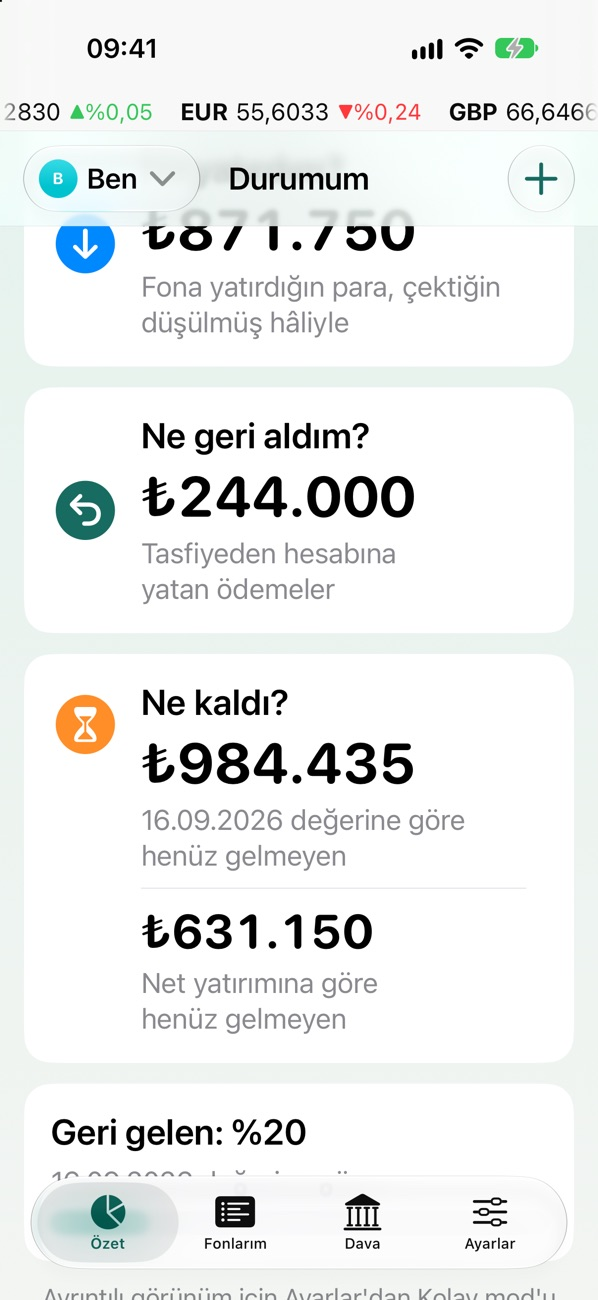
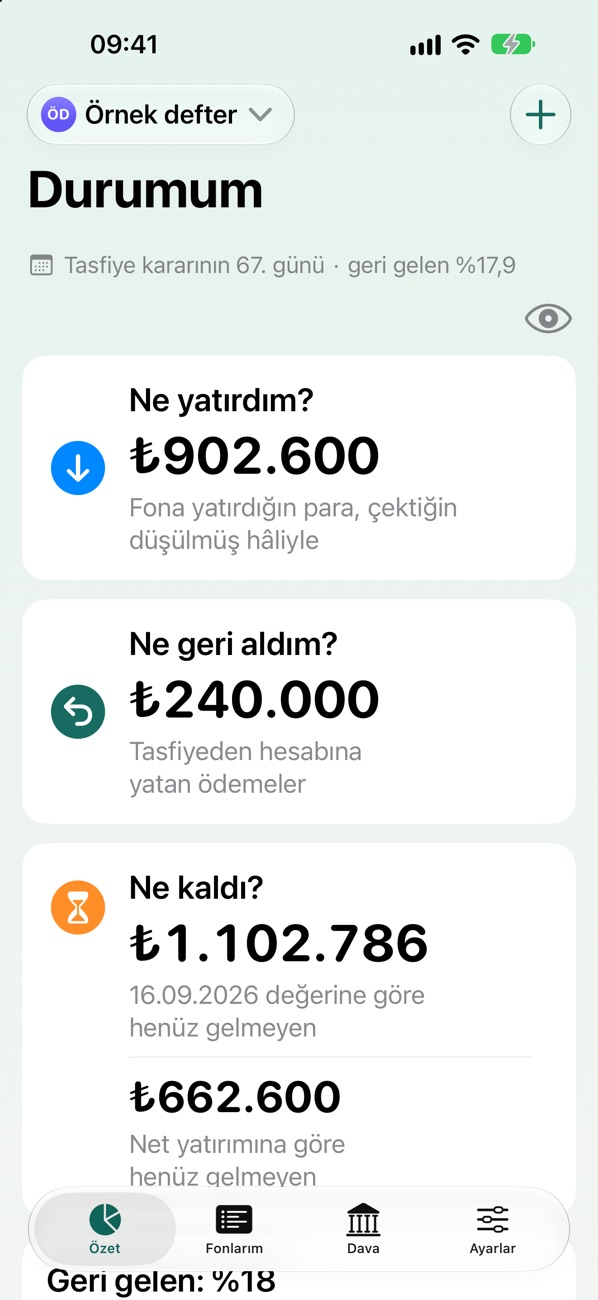
1.1 yayında: iPad metinleri, ülkesiz App Store bağlantıları, Örnek defter ekranları

diff --git a/duyurular.html b/duyurular.html
@@ -44,7 +44,7 @@
 <main class="page">
   <div class="wrap narrow">
     <h1>Duyurular</h1>
-    <p class="meta" id="updated">41 duyuru · en yeni resmî duyuru: 20.11.2026 · her saat kontrol edilir</p>
+    <p class="meta" id="updated">42 duyuru · en yeni resmî duyuru: 20.11.2026 · her saat kontrol edilir</p>
     <p>Uygulamadaki Duyurular bölümüyle aynı liste. SPK ve YTM her saat kendiliğinden kontrol edilir; yeni bir duyuru çıkınca buraya da eklenir.</p>
 
     <section id="bizden" class="news-section">
@@ -52,7 +52,7 @@
         <h2>Fon Defterim'den</h2>
         <span class="muted small">Uygulama ve site ile ilgili haberler</span>
       </div>
-      <div id="own" class="news-list"><!--statik--><article class="news"><div class="news-mark" aria-hidden="true"><svg viewBox="0 0 100 106"><path d="M50 3 92 17v35c0 28-20 42-42 51C28 94 8 80 8 52V17Z" fill="currentColor"/><g fill="#fff"><rect x="30" y="34" width="40" height="6" rx="3"/><rect x="30" y="47" width="40" height="6" rx="3"/><rect x="30" y="60" width="27" height="6" rx="3"/></g></svg></div><div><div class="news-meta"><span class="chip own">Fon Defterim</span> 20.11.2026</div><h3><a href="https://apps.apple.com/tr/app/fon-defterim/id6836281635" rel="noopener noreferrer">Fon Defterim App Store&#x27;da</a></h3><p>iPhone uygulaması artık App Store&#x27;da, ücretsiz: işlemlerini ve tasfiyeden gelen ödemeleri kaydet, net yatırımını ve kalan alacağını gör; ekstren telefonunda okunur, hiçbir yere gitmez. Android ve bilgisayar için sitedeki hesaplayıcı kullanılmaya devam ediyor.</p></div></article><article class="news"><div class="news-mark" aria-hidden="true"><svg viewBox="0 0 100 106"><path d="M50 3 92 17v35c0 28-20 42-42 51C28 94 8 80 8 52V17Z" fill="currentColor"/><g fill="#fff"><rect x="30" y="34" width="40" height="6" rx="3"/><rect x="30" y="47" width="40" height="6" rx="3"/><rect x="30" y="60" width="27" height="6" rx="3"/></g></svg></div><div><div class="news-meta"><span class="chip own">Fon Defterim</span> 15.11.2026</div><h3><a href="https://www.ytm.gov.tr/Home/Duyuru/57" rel="noopener noreferrer">Tera Yatırım müşterileri: YTM başvurusu 30 Aralık&#x27;a kadar</a></h3><p>Tera Yatırım&#x27;da kalan nakit ve menkul kıymet alacakları için Yatırımcı Tazmin Merkezi&#x27;ne başvurunun son günü 30.12.2026. Form tazmin.ytm.gov.tr adresinde doldurulur; ıslak imzalı çıktısı eklerle birlikte elden, postayla ya da kargoyla YTM&#x27;ye gönderilir. Alacaklara faiz işlemez, bu yüzden başvuruyu geciktirme. Bilgileri yalnızca ytm.gov.tr&#x27;den kontrol et; senden para ya da şifre isteyenlere itibar etme.</p></div></article><article class="news"><div class="news-mark" aria-hidden="true"><svg viewBox="0 0 100 106"><path d="M50 3 92 17v35c0 28-20 42-42 51C28 94 8 80 8 52V17Z" fill="currentColor"/><g fill="#fff"><rect x="30" y="34" width="40" height="6" rx="3"/><rect x="30" y="47" width="40" height="6" rx="3"/><rect x="30" y="60" width="27" height="6" rx="3"/></g></svg></div><div><div class="news-meta"><span class="chip own">Fon Defterim</span> 15.11.2026</div><h3>Uygulamaya otomatik yedek geliyor</h3><p>Fon Defterim uygulamasında kayıtların her gün iCloud Drive&#x27;da seçtiğin klasöre otomatik yedeklenebilecek; telefon kaybolsa ya da uygulama silinse bile kayıtların kalır. Özellik isteğe bağlı, kendiliğinden açılmaz.</p></div></article><article class="news"><div class="news-mark" aria-hidden="true"><svg viewBox="0 0 100 106"><path d="M50 3 92 17v35c0 28-20 42-42 51C28 94 8 80 8 52V17Z" fill="currentColor"/><g fill="#fff"><rect x="30" y="34" width="40" height="6" rx="3"/><rect x="30" y="47" width="40" height="6" rx="3"/><rect x="30" y="60" width="27" height="6" rx="3"/></g></svg></div><div><div class="news-meta"><span class="chip own">Fon Defterim</span> 15.11.2026</div><h3><a href="https://fondefterim.com/hesapla.html" rel="noopener noreferrer">Hesaplayıcı artık birden fazla PDF ekstre okuyor</a></h3><p>Her ayın ya da her aracı kurumun ekstresini tek seferde seçebilirsin; iki ekstrede geçen işlem bir kez sayılır. Dosyaların yine hiçbir yere gönderilmez.</p></div></article><article class="news"><div class="news-mark" aria-hidden="true"><svg viewBox="0 0 100 106"><path d="M50 3 92 17v35c0 28-20 42-42 51C28 94 8 80 8 52V17Z" fill="currentColor"/><g fill="#fff"><rect x="30" y="34" width="40" height="6" rx="3"/><rect x="30" y="47" width="40" height="6" rx="3"/><rect x="30" y="60" width="27" height="6" rx="3"/></g></svg></div><div><div class="news-meta"><span class="chip own">Fon Defterim</span> 15.11.2026</div><h3><a href="https://fondefterim.com" rel="noopener noreferrer">fondefterim.com yayında</a></h3><p>Sitemiz açıldı: net yatırımını Excel ya da PDF ekstrenle tarayıcıda hesapla; 72 fonun 16.09 fiyatı, SPK duyuruları ve KAP bağlantıları fon sayfalarında. Ekstren hiçbir yere gitmez.</p></div></article><article class="news"><div class="news-mark" aria-hidden="true"><svg viewBox="0 0 100 106"><path d="M50 3 92 17v35c0 28-20 42-42 51C28 94 8 80 8 52V17Z" fill="currentColor"/><g fill="#fff"><rect x="30" y="34" width="40" height="6" rx="3"/><rect x="30" y="47" width="40" height="6" rx="3"/><rect x="30" y="60" width="27" height="6" rx="3"/></g></svg></div><div><div class="news-meta"><span class="chip own">Fon Defterim</span> 08.11.2026</div><h3>Fon Defterim veri sayfası yayında</h3><p>Tasfiye listesindeki fonların bilgileri ve yeni duyurular bundan sonra buradan güncellenecek; uygulamayı güncellemene gerek kalmadan telefonuna gelir. Uygulama yalnızca bu herkese açık listeyi indirir, senin kayıtların hiçbir yere gönderilmez.</p></div></article><article class="news"><div class="news-mark" aria-hidden="true"><svg viewBox="0 0 100 106"><path d="M50 3 92 17v35c0 28-20 42-42 51C28 94 8 80 8 52V17Z" fill="currentColor"/><g fill="#fff"><rect x="30" y="34" width="40" height="6" rx="3"/><rect x="30" y="47" width="40" height="6" rx="3"/><rect x="30" y="60" width="27" height="6" rx="3"/></g></svg></div><div><div class="news-meta"><span class="chip own">Fon Defterim</span> 08.11.2026</div><h3><a href="https://fondefterim.github.io/gizlilik.html" rel="noopener noreferrer">Gizlilik politikası</a></h3><p>Fon Defterim hangi bilgileri işler, nerede saklar?</p></div></article><!--/statik--></div>
+      <div id="own" class="news-list"><!--statik--><article class="news"><div class="news-mark" aria-hidden="true"><svg viewBox="0 0 100 106"><path d="M50 3 92 17v35c0 28-20 42-42 51C28 94 8 80 8 52V17Z" fill="currentColor"/><g fill="#fff"><rect x="30" y="34" width="40" height="6" rx="3"/><rect x="30" y="47" width="40" height="6" rx="3"/><rect x="30" y="60" width="27" height="6" rx="3"/></g></svg></div><div><div class="news-meta"><span class="chip own">Fon Defterim</span> 24.11.2026</div><h3><a href="https://apps.apple.com/app/id6836281635" rel="noopener noreferrer">Yeni sürüm 1.1 yayında</a></h3><p>iPad desteği, yeni genel duyurularda anlık bildirim ve fonu defterden kaldırma geldi. App Store&#x27;dan güncelleyebilirsin; kayıtların olduğu gibi kalır.</p></div></article><article class="news"><div class="news-mark" aria-hidden="true"><svg viewBox="0 0 100 106"><path d="M50 3 92 17v35c0 28-20 42-42 51C28 94 8 80 8 52V17Z" fill="currentColor"/><g fill="#fff"><rect x="30" y="34" width="40" height="6" rx="3"/><rect x="30" y="47" width="40" height="6" rx="3"/><rect x="30" y="60" width="27" height="6" rx="3"/></g></svg></div><div><div class="news-meta"><span class="chip own">Fon Defterim</span> 20.11.2026</div><h3><a href="https://apps.apple.com/tr/app/fon-defterim/id6836281635" rel="noopener noreferrer">Fon Defterim App Store&#x27;da</a></h3><p>iPhone uygulaması artık App Store&#x27;da, ücretsiz: işlemlerini ve tasfiyeden gelen ödemeleri kaydet, net yatırımını ve kalan alacağını gör; ekstren telefonunda okunur, hiçbir yere gitmez. Android ve bilgisayar için sitedeki hesaplayıcı kullanılmaya devam ediyor.</p></div></article><article class="news"><div class="news-mark" aria-hidden="true"><svg viewBox="0 0 100 106"><path d="M50 3 92 17v35c0 28-20 42-42 51C28 94 8 80 8 52V17Z" fill="currentColor"/><g fill="#fff"><rect x="30" y="34" width="40" height="6" rx="3"/><rect x="30" y="47" width="40" height="6" rx="3"/><rect x="30" y="60" width="27" height="6" rx="3"/></g></svg></div><div><div class="news-meta"><span class="chip own">Fon Defterim</span> 15.11.2026</div><h3><a href="https://www.ytm.gov.tr/Home/Duyuru/57" rel="noopener noreferrer">Tera Yatırım müşterileri: YTM başvurusu 30 Aralık&#x27;a kadar</a></h3><p>Tera Yatırım&#x27;da kalan nakit ve menkul kıymet alacakları için Yatırımcı Tazmin Merkezi&#x27;ne başvurunun son günü 30.12.2026. Form tazmin.ytm.gov.tr adresinde doldurulur; ıslak imzalı çıktısı eklerle birlikte elden, postayla ya da kargoyla YTM&#x27;ye gönderilir. Alacaklara faiz işlemez, bu yüzden başvuruyu geciktirme. Bilgileri yalnızca ytm.gov.tr&#x27;den kontrol et; senden para ya da şifre isteyenlere itibar etme.</p></div></article><article class="news"><div class="news-mark" aria-hidden="true"><svg viewBox="0 0 100 106"><path d="M50 3 92 17v35c0 28-20 42-42 51C28 94 8 80 8 52V17Z" fill="currentColor"/><g fill="#fff"><rect x="30" y="34" width="40" height="6" rx="3"/><rect x="30" y="47" width="40" height="6" rx="3"/><rect x="30" y="60" width="27" height="6" rx="3"/></g></svg></div><div><div class="news-meta"><span class="chip own">Fon Defterim</span> 15.11.2026</div><h3>Uygulamaya otomatik yedek geliyor</h3><p>Fon Defterim uygulamasında kayıtların her gün iCloud Drive&#x27;da seçtiğin klasöre otomatik yedeklenebilecek; telefon kaybolsa ya da uygulama silinse bile kayıtların kalır. Özellik isteğe bağlı, kendiliğinden açılmaz.</p></div></article><article class="news"><div class="news-mark" aria-hidden="true"><svg viewBox="0 0 100 106"><path d="M50 3 92 17v35c0 28-20 42-42 51C28 94 8 80 8 52V17Z" fill="currentColor"/><g fill="#fff"><rect x="30" y="34" width="40" height="6" rx="3"/><rect x="30" y="47" width="40" height="6" rx="3"/><rect x="30" y="60" width="27" height="6" rx="3"/></g></svg></div><div><div class="news-meta"><span class="chip own">Fon Defterim</span> 15.11.2026</div><h3><a href="https://fondefterim.com/hesapla.html" rel="noopener noreferrer">Hesaplayıcı artık birden fazla PDF ekstre okuyor</a></h3><p>Her ayın ya da her aracı kurumun ekstresini tek seferde seçebilirsin; iki ekstrede geçen işlem bir kez sayılır. Dosyaların yine hiçbir yere gönderilmez.</p></div></article><article class="news"><div class="news-mark" aria-hidden="true"><svg viewBox="0 0 100 106"><path d="M50 3 92 17v35c0 28-20 42-42 51C28 94 8 80 8 52V17Z" fill="currentColor"/><g fill="#fff"><rect x="30" y="34" width="40" height="6" rx="3"/><rect x="30" y="47" width="40" height="6" rx="3"/><rect x="30" y="60" width="27" height="6" rx="3"/></g></svg></div><div><div class="news-meta"><span class="chip own">Fon Defterim</span> 15.11.2026</div><h3><a href="https://fondefterim.com" rel="noopener noreferrer">fondefterim.com yayında</a></h3><p>Sitemiz açıldı: net yatırımını Excel ya da PDF ekstrenle tarayıcıda hesapla; 72 fonun 16.09 fiyatı, SPK duyuruları ve KAP bağlantıları fon sayfalarında. Ekstren hiçbir yere gitmez.</p></div></article><article class="news"><div class="news-mark" aria-hidden="true"><svg viewBox="0 0 100 106"><path d="M50 3 92 17v35c0 28-20 42-42 51C28 94 8 80 8 52V17Z" fill="currentColor"/><g fill="#fff"><rect x="30" y="34" width="40" height="6" rx="3"/><rect x="30" y="47" width="40" height="6" rx="3"/><rect x="30" y="60" width="27" height="6" rx="3"/></g></svg></div><div><div class="news-meta"><span class="chip own">Fon Defterim</span> 08.11.2026</div><h3>Fon Defterim veri sayfası yayında</h3><p>Tasfiye listesindeki fonların bilgileri ve yeni duyurular bundan sonra buradan güncellenecek; uygulamayı güncellemene gerek kalmadan telefonuna gelir. Uygulama yalnızca bu herkese açık listeyi indirir, senin kayıtların hiçbir yere gönderilmez.</p></div></article><article class="news"><div class="news-mark" aria-hidden="true"><svg viewBox="0 0 100 106"><path d="M50 3 92 17v35c0 28-20 42-42 51C28 94 8 80 8 52V17Z" fill="currentColor"/><g fill="#fff"><rect x="30" y="34" width="40" height="6" rx="3"/><rect x="30" y="47" width="40" height="6" rx="3"/><rect x="30" y="60" width="27" height="6" rx="3"/></g></svg></div><div><div class="news-meta"><span class="chip own">Fon Defterim</span> 08.11.2026</div><h3><a href="https://fondefterim.github.io/gizlilik.html" rel="noopener noreferrer">Gizlilik politikası</a></h3><p>Fon Defterim hangi bilgileri işler, nerede saklar?</p></div></article><!--/statik--></div>
     </section>
 
     <section id="resmi" class="ann-section">

diff --git a/index.html b/index.html
@@ -4,7 +4,7 @@
 <meta charset="utf-8">
 <meta name="viewport" content="width=device-width, initial-scale=1">
 <title>Fon Defterim – Tasfiyedeki fonlar için hesap defteri</title>
-<meta name="description" content="SPK kararıyla tasfiyeye giren fonların yatırımcıları için: net yatırımını, tasfiyeden gelen ödemeleri ve kalan alacağını tek yerde takip et. Ücretsiz, reklamsız; kayıtların yalnızca telefonunda kalır.">
+<meta name="description" content="SPK kararıyla tasfiyeye giren fonların yatırımcıları için: net yatırımını, tasfiyeden gelen ödemeleri ve kalan alacağını tek yerde takip et. Ücretsiz, reklamsız; kayıtların yalnızca cihazında kalır.">
 <meta property="og:title" content="Fon Defterim – Tasfiyedeki fonlar için hesap defteri">
 <meta property="og:description" content="Türkiye'deki fon mağdurları için, mağdurlar tarafından. Tasfiyedeki fonlarda net yatırım, gelen ödemeler ve kalan alacak tek yerde.">
 <meta property="og:image" content="https://fondefterim.com/img/paylasim.jpg">
@@ -28,10 +28,10 @@
 {"@context":"https://schema.org","@type":"WebSite","name":"Fon Defterim","alternateName":"Fon Defterim – Tasfiye Takibi","url":"https://fondefterim.com/","inLanguage":"tr-TR",
  "description":"SPK kararıyla tasfiyeye giren fonların yatırımcıları için ücretsiz hesap defteri: net yatırım, tasfiyeden gelen ödemeler ve kalan alacak. Genel bir fon fiyatı ya da getiri sitesi değildir; yalnızca tasfiyedeki fonları kapsar. Türkiye'deki fon mağdurları için, mağdurlar tarafından.",
  "publisher":{"@type":"Organization","@id":"https://fondefterim.com/#kurulus","name":"Fon Defterim","url":"https://fondefterim.com/","email":"destek@fondefterim.com","logo":"https://fondefterim.com/img/simge-192.png",
-  "description":"Tasfiyedeki fonların yatırımcıları için ücretsiz hesap defteri (iPhone uygulaması ve web hesaplayıcı). Yatırım hesabı ya da portföy paylaşan bir sosyal medya hesabı değildir; resmî adresleri yalnızca fondefterim.com, destek@fondefterim.com ve X'te @fondefterimcom'dur.",
+  "description":"Tasfiyedeki fonların yatırımcıları için ücretsiz hesap defteri (iPhone ve iPad uygulaması ve web hesaplayıcı). Yatırım hesabı ya da portföy paylaşan bir sosyal medya hesabı değildir; resmî adresleri yalnızca fondefterim.com, destek@fondefterim.com ve X'te @fondefterimcom'dur.",
   "sameAs":["https://x.com/fondefterimcom"]}}
 </script>
-<script type="application/ld+json">{"@context": "https://schema.org", "@type": "MobileApplication", "name": "Fon Defterim", "operatingSystem": "iOS", "applicationCategory": "FinanceApplication", "inLanguage": "tr", "url": "https://apps.apple.com/tr/app/fon-defterim/id6836281635", "downloadUrl": "https://apps.apple.com/tr/app/fon-defterim/id6836281635", "offers": {"@type": "Offer", "price": "0", "priceCurrency": "TRY"}, "publisher": {"@id": "https://fondefterim.com/#kurulus"}}</script>
+<script type="application/ld+json">{"@context": "https://schema.org", "@type": "MobileApplication", "name": "Fon Defterim", "operatingSystem": "iOS, iPadOS", "applicationCategory": "FinanceApplication", "inLanguage": "tr", "url": "https://apps.apple.com/app/id6836281635", "downloadUrl": "https://apps.apple.com/app/id6836281635", "offers": {"@type": "Offer", "price": "0", "priceCurrency": "TRY"}, "publisher": {"@id": "https://fondefterim.com/#kurulus"}}</script>
 </head>
 <body>
 
@@ -57,7 +57,7 @@
       <div class="hero2-text">
         <span class="tag-light">Türkiye'deki fon mağdurları için, mağdurlar tarafından</span>
         <h1>Tasfiyedeki fonlarda hesabını sen tut.</h1>
-        <p class="lead">Net yatırımın, tasfiyeden gelen ödemeler ve kalan alacağın tek yerde. Ücretsiz, reklamsız; kayıtların yalnızca telefonunda kalır.</p>
+        <p class="lead">Net yatırımın, tasfiyeden gelen ödemeler ve kalan alacağın tek yerde. Ücretsiz, reklamsız; kayıtların yalnızca cihazında kalır.</p>
         <div class="buttons">
           <a class="btn light big" href="hesapla.html"><svg viewBox="0 0 24 24" aria-hidden="true"><rect x="5" y="3" width="14" height="18" rx="3" fill="none" stroke="currentColor" stroke-width="2"/><path d="M8 7h8M8 11h2M12 11h2M8 15h2M12 15h2M16 11v4" stroke="currentColor" stroke-width="2" stroke-linecap="round"/></svg>Net yatırımını hemen hesapla</a>
           <a class="btn glass" href="net-yatirim.html">Nasıl hesaplanır?</a>
@@ -73,7 +73,7 @@
           <p class="ff-hint">Durum, 16.09 fiyatı, SPK duyuruları ve KAP belgeleri</p>
         </form>
         <div class="store-row">
-          <a class="store-badge-official" id="storeBadge" href="https://apps.apple.com/tr/app/fon-defterim/id6836281635" rel="noopener">
+          <a class="store-badge-official" id="storeBadge" href="https://apps.apple.com/app/id6836281635" rel="noopener">
             <img src="img/app-store-rozet.svg" width="151" height="40" alt="App Store'dan İndirin">
           </a>
           <ul class="checks">
@@ -86,12 +86,12 @@
         <div class="phone front">
           <div class="slides" id="slides" tabindex="0" role="region" aria-roledescription="galeri" aria-label="Uygulamadan ekranlar (uydurma örnek veri), yana kaydır">
             <figure class="slide" data-title="Özet" data-sub="Ne kadarı geldi, ne kaldı?"><img src="img/ekran-ozet.jpg" width="598" height="1300" alt="Özet ekranı: kalan alacak, net yatırım, 16.09 değeri"></figure>
-            <figure class="slide" data-title="Fonlarım" data-sub="Her fon tek bakışta"><img src="img/ekran-fonlar.jpg" width="598" height="1300" alt="Fonlarım ekranı: her fonun kalan alacağı ve geri ödeme çubuğu" loading="lazy"></figure>
-            <figure class="slide" data-title="Dava" data-sub="Açmadan önce hesapla"><img src="img/ekran-dava.jpg" width="598" height="1300" alt="Dava senaryoları: net ele geçen ve hesap dökümü" loading="lazy"></figure>
+            <figure class="slide" data-title="Fonlarım" data-sub="Her fon tek bakışta"><img src="img/ekran-fonlar.jpg" width="598" height="1300" alt="Fon sayfası: bir fonun net yatırımı, 16.09 değeri ve kalan alacağı" loading="lazy"></figure>
+            <figure class="slide" data-title="Dava" data-sub="Senaryoları önceden gör"><img src="img/ekran-dava.jpg" width="598" height="1300" alt="Dava senaryoları: net ele geçen ve hesap dökümü" loading="lazy"></figure>
             <figure class="slide" data-title="Kolay mod" data-sub="Büyük yazı, sade özet"><img src="img/ekran-kolay.jpg" width="598" height="1300" alt="Kolay mod: ne yatırdım, ne geri aldım, ne kaldı" loading="lazy"></figure>
           </div>
         </div>
-        <div class="float-chip c1" aria-hidden="true"><svg viewBox="0 0 24 24"><path d="M12 3 4 6.5V12c0 4.6 3.4 8 8 9 4.6-1 8-4.4 8-9V6.5Z" fill="none" stroke="currentColor" stroke-width="2"/><path d="m8.5 12 2.5 2.5 4.5-5" fill="none" stroke="currentColor" stroke-width="2" stroke-linecap="round" stroke-linejoin="round"/></svg>Verin telefonunda</div>
+        <div class="float-chip c1" aria-hidden="true"><svg viewBox="0 0 24 24"><path d="M12 3 4 6.5V12c0 4.6 3.4 8 8 9 4.6-1 8-4.4 8-9V6.5Z" fill="none" stroke="currentColor" stroke-width="2"/><path d="m8.5 12 2.5 2.5 4.5-5" fill="none" stroke="currentColor" stroke-width="2" stroke-linecap="round" stroke-linejoin="round"/></svg>Verin cihazında</div>
         <div class="float-chip c2" aria-hidden="true"><svg viewBox="0 0 24 24"><path d="M4 21h16M6 21V10M10 21V10M14 21V10M18 21V10M3 10l9-6 9 6" fill="none" stroke="currentColor" stroke-width="2" stroke-linecap="round"/></svg>Aracı kurum bazında</div>
         <div class="slide-bar">
           <button type="button" class="nav-btn prev" aria-label="Önceki ekran"><svg viewBox="0 0 24 24"><path d="m14.5 6-6 6 6 6" fill="none" stroke="currentColor" stroke-width="2.2" stroke-linecap="round" stroke-linejoin="round"/></svg></button>
@@ -130,7 +130,7 @@
     <div class="wrap split">
       <div>
         <h2>Fon Defterim nedir?</h2>
-        <p>Fon Defterim, SPK kararıyla tasfiyeye giren fonların yatırımcıları için <b>ücretsiz bir hesap defteridir</b>. Alım-satımlarını ve tasfiyeden gelen ödemeleri girersin ya da ekstrenden aktarırsın; net yatırımını, 16.09.2026 değerini ve kalan alacağını hesaplar. iPhone uygulaması ve bu sitedeki hesaplayıcıdan oluşur.</p>
+        <p>Fon Defterim, SPK kararıyla tasfiyeye giren fonların yatırımcıları için <b>ücretsiz bir hesap defteridir</b>. Alım-satımlarını ve tasfiyeden gelen ödemeleri girersin ya da ekstrenden aktarırsın; net yatırımını, 16.09.2026 değerini ve kalan alacağını hesaplar. iPhone ve iPad uygulaması ile bu sitedeki hesaplayıcıdan oluşur.</p>
       </div>
       <div class="panel">
         <h3>Ne değildir?</h3>
@@ -160,8 +160,8 @@
     <div class="wrap split">
       <div>
         <h2>Ekstreni kimseye göndermeden hesapla</h2>
-        <p>Hesap dökümünde adın, kimlik ve hesap numaraların, bütün işlemlerin yazar. Bu belgeyi bir siteye, bir mesajlaşma grubuna ya da bir yapay zekâ aracına yüklediğinde o bilgiler başkasının sunucusuna gider. Fon Defterim'de ekstren <b>telefonunda ya da tarayıcında okunur</b>; bizim bir sunucumuz yok, dosya hiçbir yere gönderilmez.</p>
-        <p>Hesap açman da gerekmez. İşlemlerin, ödemelerin ve notların yalnızca telefonunda saklanır. Uygulama yalnızca herkese açık fon listesini, duyuruları ve TCMB kurlarını indirir. İnternet yokken de çalışır.</p>
+        <p>Hesap dökümünde adın, kimlik ve hesap numaraların, bütün işlemlerin yazar. Bu belgeyi bir siteye, bir mesajlaşma grubuna ya da bir yapay zekâ aracına yüklediğinde o bilgiler başkasının sunucusuna gider. Fon Defterim'de ekstren <b>cihazında ya da tarayıcında okunur</b>; bizim bir sunucumuz yok, dosya hiçbir yere gönderilmez.</p>
+        <p>Hesap açman da gerekmez. İşlemlerin, ödemelerin ve notların yalnızca cihazında saklanır. Uygulama yalnızca herkese açık fon listesini, duyuruları ve TCMB kurlarını indirir. İnternet yokken de çalışır.</p>
         <p><a href="gizlilik.html">Gizlilik politikası</a></p>
       </div>
       <div class="panel">
@@ -175,7 +175,7 @@
     <div class="wrap stack-grid">
       <div class="stack-intro">
         <h2>Neler yapar?</h2>
-        <p class="sub">Excel defterinde tuttuğun hesabın telefonundaki hâli; daha kolay ve hatasız.</p>
+        <p class="sub">Excel defterinde tuttuğun hesabın iPhone ve iPad'deki hâli; daha kolay ve hatasız.</p>
         <a class="btn ghost" href="hesapla.html">Önce sitede dene</a>
       </div>
       <div class="stack">

diff --git a/gizlilik.html b/gizlilik.html
@@ -4,10 +4,10 @@
 <meta charset="utf-8">
 <meta name="viewport" content="width=device-width, initial-scale=1">
 <title>Gizlilik Politikası – Fon Defterim</title>
-<meta name="description" content="Fon Defterim senin hakkında hiçbir bilgi toplamaz; kayıtların yalnızca telefonunda saklanır.">
+<meta name="description" content="Fon Defterim senin hakkında hiçbir bilgi toplamaz; kayıtların yalnızca cihazında saklanır.">
 <meta name="theme-color" content="#0e6b5f">
 <meta property="og:title" content="Gizlilik Politikası – Fon Defterim">
-<meta property="og:description" content="Fon Defterim senin hakkında hiçbir bilgi toplamaz; kayıtların yalnızca telefonunda saklanır.">
+<meta property="og:description" content="Fon Defterim senin hakkında hiçbir bilgi toplamaz; kayıtların yalnızca cihazında saklanır.">
 <meta property="og:image" content="https://fondefterim.com/img/paylasim.jpg">
 <meta property="og:image:width" content="1200">
 <meta property="og:image:height" content="630">
@@ -44,21 +44,21 @@
 <main class="page">
   <div class="wrap narrow">
     <h1>Gizlilik Politikası</h1>
-  <p class="meta">Son güncelleme: 22 Kasım 2026</p>
+  <p class="meta">Son güncelleme: 24 Kasım 2026</p>
 
   <h2>Kısaca</h2>
-  <p>Fon Defterim senin hakkında hiçbir bilgi toplamaz. Girdiğin kayıtlar yalnızca telefonunda saklanır; hesap açman gerekmez, reklam, analiz ya da takip aracı yoktur.</p>
+  <p>Fon Defterim senin hakkında hiçbir bilgi toplamaz. Girdiğin kayıtlar yalnızca cihazında (iPhone ya da iPad) saklanır; hesap açman gerekmez, reklam, analiz ya da takip aracı yoktur.</p>
 
   <h2>Telefonunda sakladıkların</h2>
-  <p>İşlemlerin, ödemelerin, notların, eklediğin kişilerin adları ve hesap parametreleri telefonundaki uygulama klasöründe, iOS dosya koruması (telefon kilitliyken şifreli) ile saklanır. Bu bilgiler bize ya da başka birine gönderilmez. iPhone yedeğini açtıysan, telefonunun diğer verileri gibi senin iCloud ya da bilgisayar yedeğine dahil olabilir.</p>
+  <p>İşlemlerin, ödemelerin, notların, eklediğin kişilerin adları ve hesap parametreleri cihazındaki uygulama klasöründe, iOS dosya koruması (cihaz kilitliyken şifreli) ile saklanır. Bu bilgiler bize ya da başka birine gönderilmez. iPhone yedeğini açtıysan, telefonunun diğer verileri gibi senin iCloud ya da bilgisayar yedeğine dahil olabilir.</p>
 
   <h2>İçe aktardığın dosyalar</h2>
-  <p>Excel, CSV ya da PDF ekstrelerin yalnızca telefonunda okunur. Taranmış PDF'lerdeki yazı, Apple'ın cihaz üzerindeki yazı tanımasıyla okunur; dosya hiçbir yere yüklenmez.</p>
+  <p>Excel, CSV ya da PDF ekstrelerin yalnızca cihazında okunur. Taranmış PDF'lerdeki yazı, Apple'ın cihaz üzerindeki yazı tanımasıyla okunur; dosya hiçbir yere yüklenmez.</p>
 
   <h2>İnternet bağlantısı</h2>
   <p>Uygulama, tasfiye listesindeki fonların güncel bilgilerini ve duyuruları almak için veri sitemizdeki (fondefterim.github.io) herkese açık iki dosyayı (<a href="https://fondefterim.github.io/v1/veri.json">v1/veri.json</a> ve TCMB kurları için <a href="https://fondefterim.github.io/v1/kur.json">v1/kur.json</a>) indirir. Bu istekte senin kayıtların, adın ya da cihazına ait bir kimlik gönderilmez; çerez kullanılmaz. Bu site ve veri sitesi GitHub Pages üzerinde barındırılır; GitHub, her web sitesinde olduğu gibi isteği yapan IP adresini kendi <a href="https://docs.github.com/site-policy/privacy-policies/github-general-privacy-statement">gizlilik bildirimine</a> göre işleyebilir. Bu indirmeyi uygulamada Ayarlar → "İnternetten güncelle" ile kapatabilirsin; kapalıyken uygulama internete hiç bağlanmaz.</p>
   <p>Duyurulardaki bağlantılara dokunduğunda sayfa Safari'de açılır; o sitenin kendi gizlilik kuralları geçerlidir.</p>
-  <p>Duyuru özetleri, destekleyen cihazlarda Apple Intelligence ile telefonun üzerinde oluşturulur; metin hiçbir sunucuya gönderilmez.</p>
+  <p>Duyuru özetleri, destekleyen cihazlarda Apple Intelligence ile cihazın üzerinde oluşturulur; metin hiçbir sunucuya gönderilmez.</p>
 
   <h2>Anlık bildirimler</h2>
   <p>Duyuru bildirimini açtıysan, yeni duyurular Apple'ın iCloud altyapısıyla hemen gelir. Bunun için adın, e-posta adresin ya da kayıtların kullanılmaz; kimin bildirim aldığını biz göremeyiz. Bildirimi Ayarlar'dan istediğin an kapatabilirsin.</p>
@@ -67,7 +67,7 @@
   <p>Uygulamanın kendisi bize hiçbir şey göndermez. Kendi isteğinle destek adresine e-posta yazarsan, e-posta adresin ve yazdıkların yalnızca sana yanıt vermek için kullanılır, başkasıyla paylaşılmaz. Uygulamadaki "Geri bildirim gönder" e-postaya yalnızca uygulama sürümünü, iOS sürümünü ve cihaz modelini (ör. iPhone17,1) ekler; göndermeden önce görür, istersen silersin. E-postana ekstre, TC kimlik numarası, şifre ya da banka bilgisi koyma; bunları hiçbir zaman istemeyiz.</p>
 
   <h2>Verilerini silmek</h2>
-  <p>Uygulamada Ayarlar → "Tüm verileri sil" ya da uygulamayı telefonundan silmen yeterlidir. Bizde sana ait bir kayıt olmadığı için silinecek başka bir şey yoktur.</p>
+  <p>Uygulamada Ayarlar → "Tüm verileri sil" ya da uygulamayı cihazından silmen yeterlidir. Bizde sana ait bir kayıt olmadığı için silinecek başka bir şey yoktur.</p>
 
   <h2>Çocuklar</h2>
   <p>Uygulama çocuklara yönelik değildir ve kimseden kişisel bilgi toplamaz.</p>

diff --git a/destek.html b/destek.html
@@ -59,10 +59,10 @@
   </ul>
 
   <h2>Sorular</h2>
-  <p><b>Kayıtlarım nereye gidiyor?</b><br>Hiçbir yere. Her şey telefonunda saklanır. Yedek alırsan dosya şifreli olarak senin seçtiğin yere kaydedilir. Ayrıntılar: <a href="gizlilik.html">Gizlilik Politikası</a>.</p>
+  <p><b>Kayıtlarım nereye gidiyor?</b><br>Hiçbir yere. Her şey cihazında saklanır. Yedek alırsan dosya şifreli olarak senin seçtiğin yere kaydedilir. Ayrıntılar: <a href="gizlilik.html">Gizlilik Politikası</a>.</p>
   <p><b>Net yatırım nasıl hesaplanıyor?</b><br>Kabaca alışlarının toplam tutarı eksi satışlarının toplam tutarı. Resmî hesap yöntemi ayrıntılı açıklanmadı. Aynı fonu birden fazla aracı kurumdan aldıysan uygulama her kurumu ayrı hesaplar (bir kurumda eksi çıkarsa 0 sayılır); şimdiye kadarki ödemeler bu yöntemle uyumlu görünüyor. Fon sayfasındaki "Net yatırım nasıl hesaplandı?" bölümünde dökümü görebilirsin.</p>
   <p><b>Kayıtlarımı nasıl girerim?</b><br>İşlemlerini tek tek ekleyebilir ya da Excel, CSV veya PDF ekstreni Ayarlar → İçe aktar ile alabilirsin. Önce denemek istersen "Örnek veriyle dene" düğmesi uydurma kayıtlarla ayrı bir defter açar.</p>
-  <p><b>Telefonumu değiştirirsem?</b><br>Ayarlar → Yedekle ile bir yedek dosyası al, yeni telefonda Ayarlar → Yedekten geri yükle ile aç.</p>
+  <p><b>Telefonumu ya da iPad'imi değiştirirsem?</b><br>Ayarlar → Yedekle ile bir yedek dosyası al, yeni cihazda Ayarlar → Yedekten geri yükle ile aç.</p>
   <p><b>Paramı geri almamı sağlar mı?</b><br>Hayır. Yalnızca hesabını düzenli tutmana ve durumunu görmene yardım eder. Ödemeleri tasfiye süreci yapar.</p>
   <p><b>Rakamlar resmî mi?</b><br>Hayır. Resmî bir net yatırım tutarı açıklanmadı; tutarları tasfiye süreci belirler. Uygulamadaki rakamlar kontrol amaçlıdır. Hesabın nasıl yapıldığını <a href="net-yatirim.html">net yatırım rehberinde</a> anlattık.</p>
   <p><b>Hangi fonlar var?</b><br>SPK'nın tasfiye kararındaki fonların listesi. Liste güncellenince uygulama kendiliğinden yeniler.</p>
@@ -70,7 +70,7 @@
   <p><b>İşlemlerimi Excel'de tutmak istiyorum, şablon var mı?</b><br>Evet: <a href="sablon/islemler-sablonu.csv" download>işlemler şablonu</a> ve <a href="sablon/odemeler-sablonu.csv" download>ödemeler şablonu</a>. Örnek satırları silip kendi kayıtlarını yaz. Fon Defterim'de Ayarlar → İçe aktar ile doğrudan alabilirsin; aracı kurum sütunu da tanınır.</p>
   <p><b>Biri benden para ya da şifre istiyor, ne yapmalıyım?</b><br>Verme; dolandırıcılıktır. Ayrıntılar: <a href="dolandiricilik.html">Dolandırıcılara dikkat</a>.</p>
   <p><b>Bir terimi anlamadım.</b><br><a href="sozluk.html">Sözlük</a> sayfasında tasfiye, net yatırım, harç, vekâlet ücreti gibi terimlerin sade açıklamaları var.</p>
-  <p><b>Android ya da tablette çalışır mı?</b><br>Uygulama şimdilik iPhone için; iPad'de de çalışır (App Store'da aramada "Yalnızca iPhone" filtresiyle çıkar). Android için web sürümü üzerinde çalışıyoruz. O zamana kadar <a href="hesapla.html">net yatırım hesaplama sayfası</a> her cihazda açılır.</p>
+  <p><b>iPad ya da Android'de çalışır mı?</b><br>Uygulama iPhone ve iPad'de çalışır; 1.1 sürümüyle iPad'de tam ekran ve her yönde kullanılır. Her cihazın kendi defteri vardır; kayıtlar cihazlar arasında kendiliğinden eşitlenmez, yedek dosyasıyla taşıyabilirsin. Android uygulaması şimdilik yok; Android ya da bilgisayardan <a href="hesapla.html">net yatırım hesaplama sayfasını</a> kullanabilirsin.</p>
   </div>
 </main>
 

diff --git a/ios/index.html b/ios/index.html
@@ -5,13 +5,13 @@
 <meta name="viewport" content="width=device-width, initial-scale=1">
 <title>Fon Defterim – App Store</title>
 <meta name="robots" content="noindex">
-<link rel="canonical" href="https://apps.apple.com/tr/app/fon-defterim/id6836281635">
-<meta http-equiv="refresh" content="0; url=https://apps.apple.com/tr/app/fon-defterim/id6836281635">
+<link rel="canonical" href="https://apps.apple.com/app/id6836281635">
+<meta http-equiv="refresh" content="0; url=https://apps.apple.com/app/id6836281635">
 <link rel="icon" href="/favicon.ico" sizes="48x48">
 <style>body{font:17px/1.6 -apple-system,BlinkMacSystemFont,"Segoe UI",Roboto,sans-serif;background:#f4fbf8;color:#12302b;display:grid;place-items:center;min-height:100vh;margin:0;padding:20px;text-align:center}a{color:#0e6b5f}</style>
 </head>
 <body>
 <p>Fon Defterim'in App Store sayfasına yönlendiriliyorsun…<br>
-<a href="https://apps.apple.com/tr/app/fon-defterim/id6836281635">Açılmazsa buraya dokun</a> · <a href="/">fondefterim.com</a></p>
+<a href="https://apps.apple.com/app/id6836281635">Açılmazsa buraya dokun</a> · <a href="/">fondefterim.com</a></p>
 </body>
 </html>

diff --git a/hesapla.html b/hesapla.html
@@ -116,7 +116,7 @@
       </div>
       <div class="panel">
         <h3>Kalıcı defter için</h3>
-        <p class="muted" style="margin:0">Bu sayfa hızlı bir hesap için. Kayıtlarını saklamak, ödemeleri takip etmek ve raporlamak için <a href="https://apps.apple.com/tr/app/fon-defterim/id6836281635" rel="noopener">Fon Defterim iPhone uygulamasını</a> (App Store, ücretsiz) kullan.</p>
+        <p class="muted" style="margin:0">Bu sayfa hızlı bir hesap için. Kayıtlarını saklamak, ödemeleri takip etmek ve raporlamak için <a href="https://apps.apple.com/app/id6836281635" rel="noopener">Fon Defterim iPhone ve iPad uygulamasını</a> (App Store, ücretsiz) kullan.</p>
       </div>
     </div>
     <p class="muted small" style="margin-top:20px">Tahmindir; resmî tutarları tasfiye süreci belirler. Hukuki ya da yatırım tavsiyesi değildir.</p>
